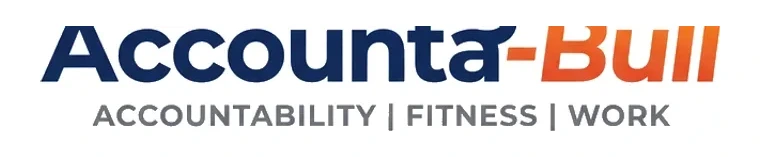
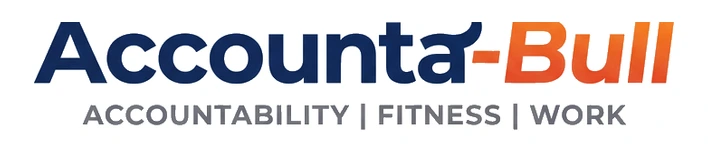
Fix clipped wordmark and fit landing on one screen
- Recrop the wordmark higher (0.655) so the tops of Accounta-Bull are no
  longer cut off; whiten residual hex background
- Shrink crest (140px), wordmark, tagline, and feature cards; tighten
  spacing and vertically center the landing so it fits one mobile screen
  with no scrolling (verified at 390x844 and 360x800)

Claude-Session: https://claude.ai/code/session_01RDmHnJweMdxXrR6ihEjcVF

Changed region(s): [[0.0311, 0.1316, 0.9633, 0.5526], [0.0932, 0.6579, 0.9011, 0.8684]]

diff --git a/src/index.css b/src/index.css
@@ -332,20 +332,25 @@ select {
 
 /* ---------- Landing ---------- */
 .landing {
-  padding-top: 26px;
+  padding-top: 14px;
+  padding-bottom: 20px;
+  display: flex;
+  flex-direction: column;
+  justify-content: center;
+  min-height: 100dvh;
 }
 .landing-logo {
   display: grid;
   place-items: center;
-  padding: 18px 22px 6px;
+  padding: 4px 22px 2px;
   position: relative;
 }
 /* Soft brand glow so the transparent logo sits richly on the navy. */
 .landing-logo::before {
   content: '';
   position: absolute;
-  width: 320px;
-  height: 320px;
+  width: 230px;
+  height: 230px;
   border-radius: 50%;
   background: radial-gradient(
     circle,
@@ -367,50 +372,62 @@ select {
 }
 /* White card behind the wordmark so its navy text stays crisp on navy. */
 .wordmark-card {
-  margin: 6px auto 0;
+  margin: 2px auto 0;
   width: fit-content;
   max-width: 92%;
   background: #ffffff;
-  border-radius: 16px;
-  padding: 10px 20px;
-  box-shadow: 0 12px 30px rgba(0, 0, 0, 0.4), 0 0 0 1px rgba(201, 169, 106, 0.25);
+  border-radius: 13px;
+  padding: 7px 16px;
+  box-shadow: 0 10px 24px rgba(0, 0, 0, 0.4), 0 0 0 1px rgba(201, 169, 106, 0.25);
 }
 .wordmark-img {
   display: block;
   width: 100%;
-  max-width: 300px;
+  max-width: 210px;
   height: auto;
 }
 .landing-tagline {
-  margin: 22px 4px 0;
+  margin: 12px 6px 0;
   text-align: center;
-  font-size: 19px;
-  line-height: 1.5;
+  font-size: 14.5px;
+  line-height: 1.4;
   color: #e7edf7;
+}
+.landing-features {
+  margin-top: 12px;
+}
+.landing-features.stack > * + * {
+  margin-top: 8px;
+}
+.landing-cta {
+  margin-top: 16px;
+}
+.landing-cta .btn-primary {
+  padding: 13px 20px;
 }
 .feature-card {
   display: flex;
   align-items: flex-start;
-  gap: 14px;
-  padding: 16px 18px;
+  gap: 12px;
+  padding: 11px 14px;
   border-radius: var(--radius);
   background: rgba(20, 42, 77, 0.55);
   border: 1px solid var(--border);
 }
 .feature-icon {
-  font-size: 24px;
+  font-size: 20px;
   line-height: 1.2;
 }
 .feature-title {
   font-family: var(--font-display);
-  font-size: 17px;
+  font-size: 14.5px;
   color: var(--text);
 }
 .feature-body {
   color: var(--text-dim);
-  font-size: 14.5px;
-  margin-top: 3px;
-  line-height: 1.45;
+  font-size: 12.5px;
+  margin-top: 2px;
+  line-height: 1.35;
 }
 
 /* ---------- Auth pages ---------- */

diff --git a/src/pages/Landing.tsx b/src/pages/Landing.tsx
@@ -23,7 +23,7 @@ export default function Landing() {
   return (
     <div className="app-shell landing">
       <div className="landing-logo">
-        <Logo size={230} glow />
+        <Logo size={140} glow />
       </div>
       <div className="wordmark-card">
         <img
@@ -38,7 +38,7 @@ export default function Landing() {
         you honest, and every win earns you horns.
       </p>
 
-      <div className="stack" style={{ marginTop: 22 }}>
+      <div className="stack landing-features">
         {features.map((f) => (
           <div className="feature-card" key={f.title}>
             <span className="feature-icon">{f.icon}</span>
@@ -50,11 +50,11 @@ export default function Landing() {
         ))}
       </div>
 
-      <div style={{ marginTop: 26 }}>
+      <div className="landing-cta">
         <Link to="/signup" className="btn btn-primary">
           JOIN THE HERD
         </Link>
-        <p className="center muted" style={{ marginTop: 16 }}>
+        <p className="center muted" style={{ marginTop: 12 }}>
           Already in the herd? <Link to="/login">Log in</Link>
         </p>
       </div>
